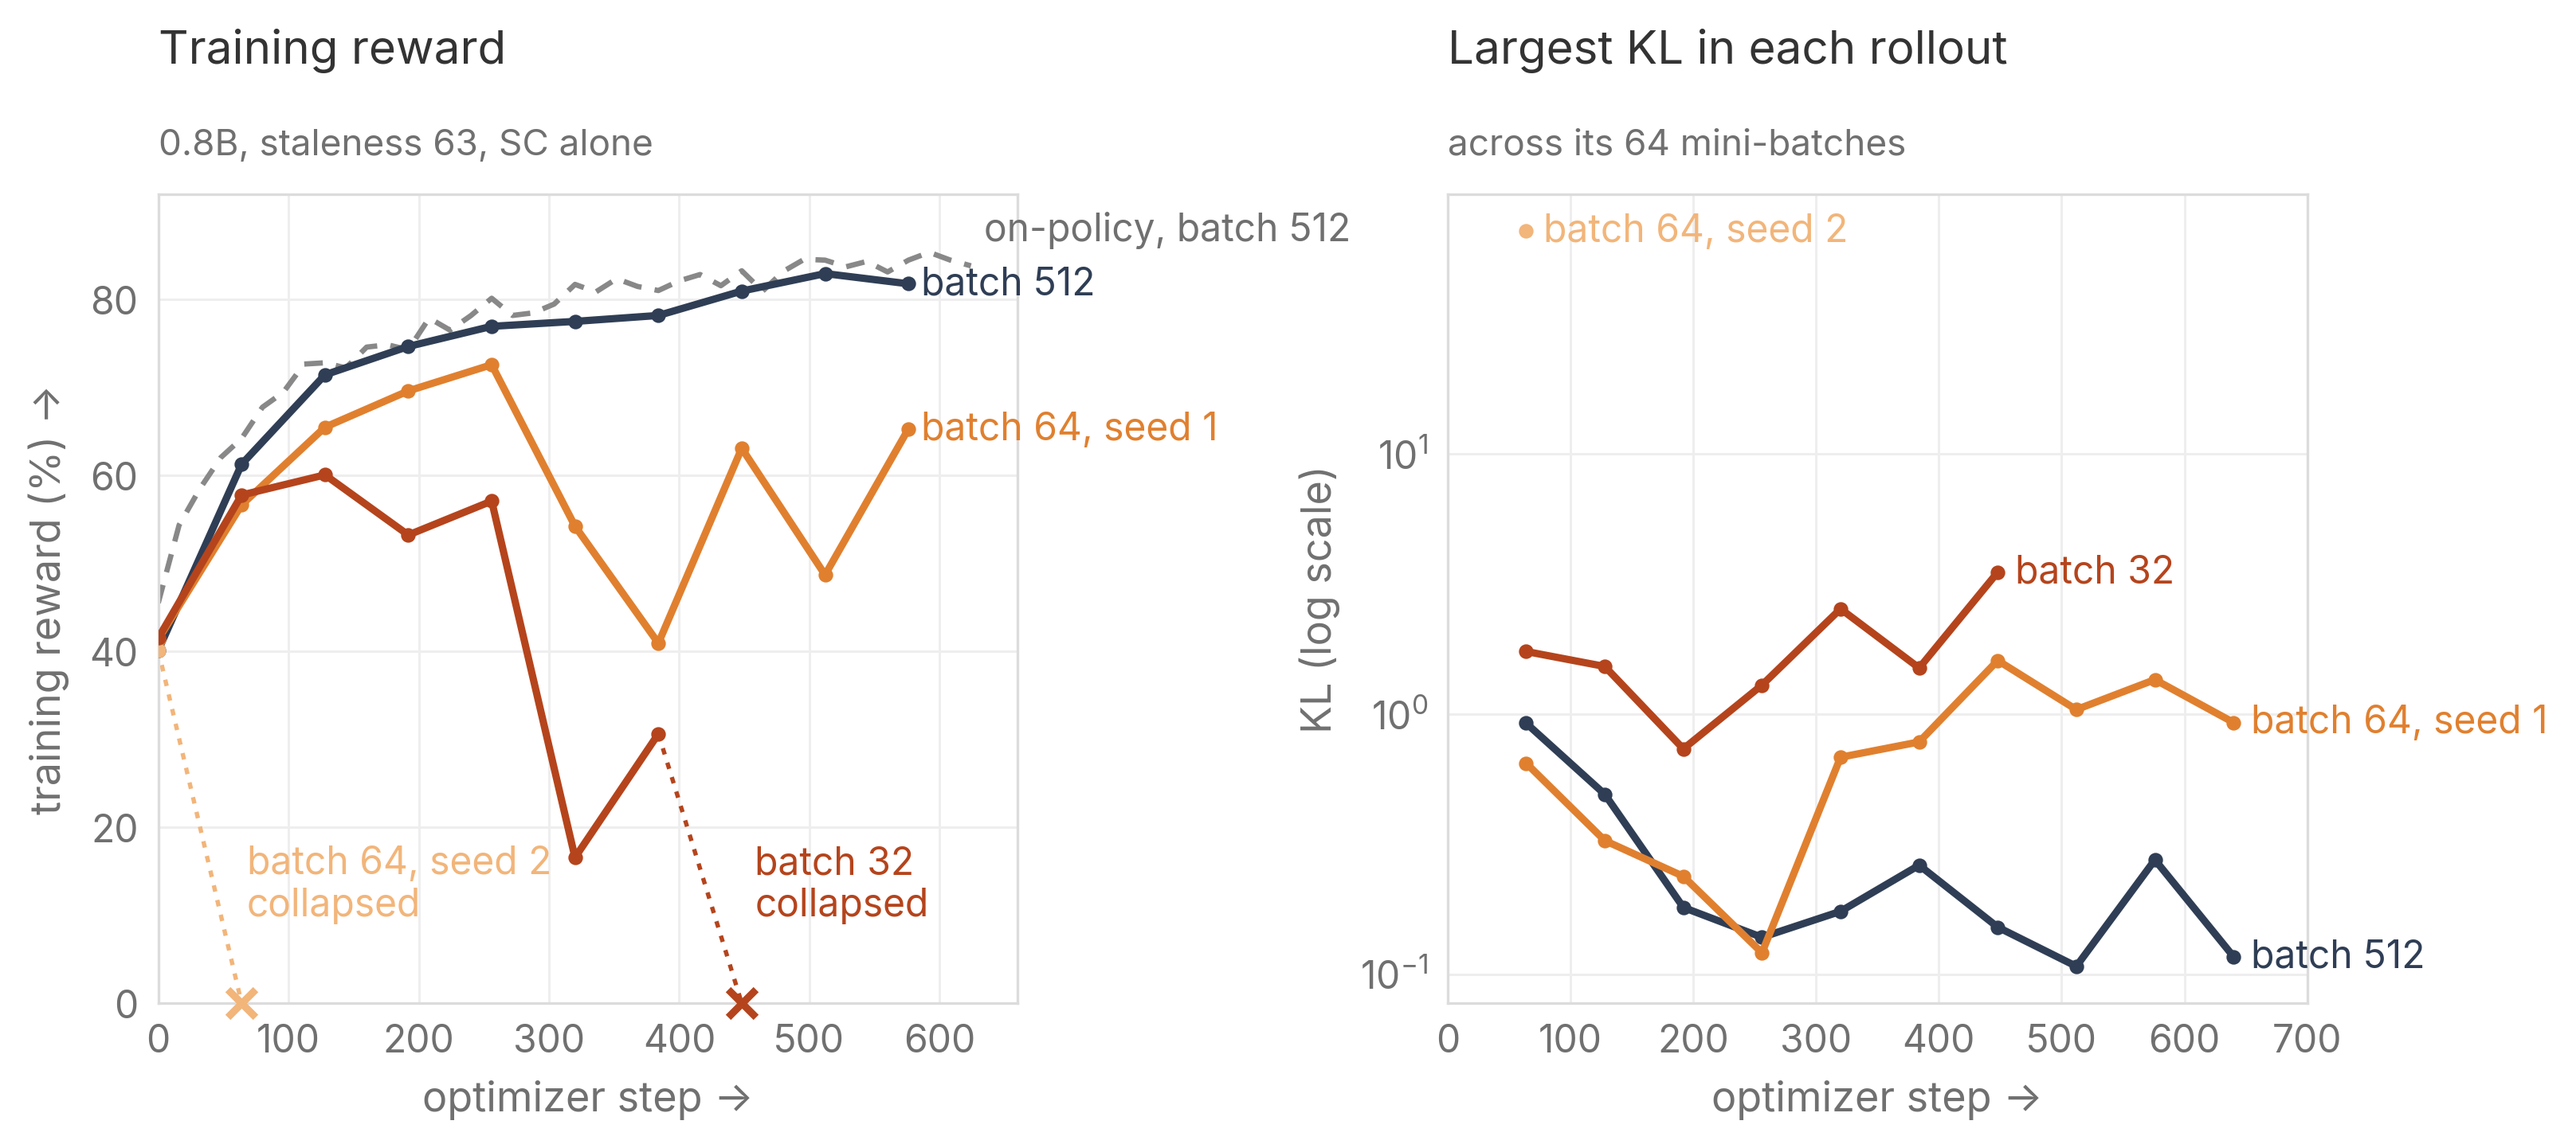
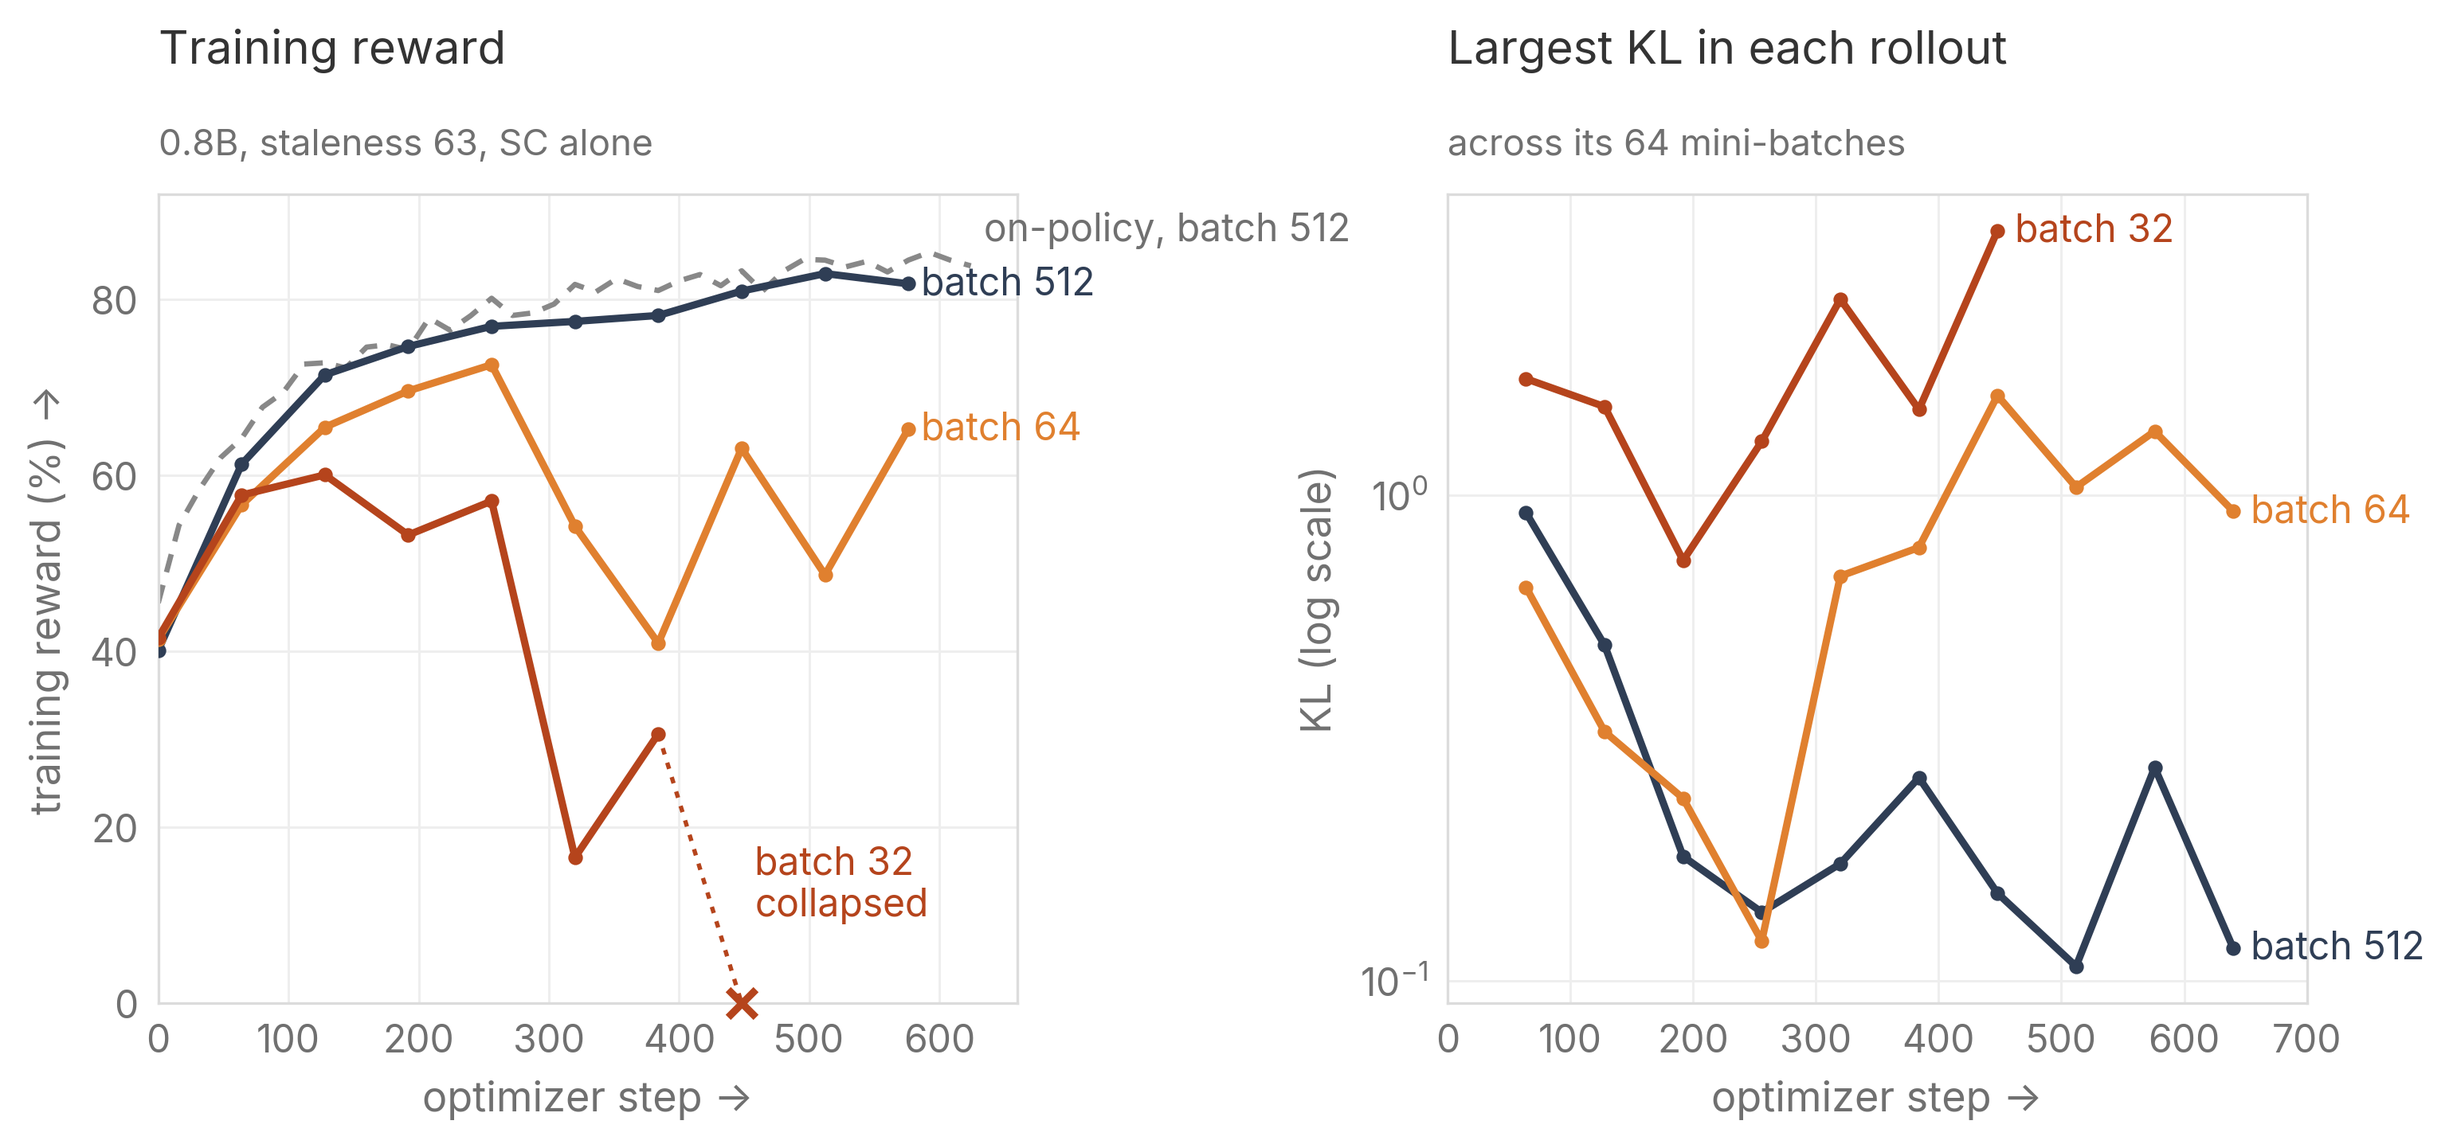
sc-drift-and-distance: Figure 7 drops the collapsed batch-64 seed, text describes it

diff --git a/sc-drift-and-distance/index.html b/sc-drift-and-distance/index.html
@@ -189,8 +189,8 @@ html[data-theme=dark] .body figure img{filter:invert(.92) hue-rotate(180deg)}
 <figure id="fig-6"><img src="figs/fig06_nocorr_batch.png?v=8fd6691e7f" alt="Figure 6"><figcaption><b>Figure 6. First-rollout KL, with and without SC.</b> 0.8B on GSM8K, staleness 15. Solid: batch 64. Dashed: batch 512.</figcaption></figure>
 <h3 id="sec-2-3">2.3 High staleness and small batches: SC alone can break</h3>
 <p>Next we move to the opposite regime, with older data and smaller batches. Unlike vanilla IS, SC does not multiply the gradient by importance weights, so a single extreme weight cannot break it. It can still fail when the trainer moves far. We run SC alone at staleness 63 (64 mini-batches per rollout) with batches of 32, 64, and 512.</p>
-<figure id="fig-7"><img src="figs/fig07_sc_alone_staleness63_v4.png?v=90b33962c4" alt="Figure 7"><figcaption><b>Figure 7. SC alone at three batch sizes.</b> 0.8B on GSM8K, staleness 63, batch 32, 64, and 512. Left: training reward. Batch 32 and one of the two batch-64 seeds collapse. Right: the largest KL in each rollout (log scale).</figcaption></figure>
-<p>The left panel of <a class="figref" href="#fig-7">Figure 7</a> shows that SC alone keeps up with on-policy at batch 512 but breaks at smaller batches. Even the batch-64 seed that survives ends 14 points below its best. In the right panel, the smaller the batch, the higher the largest KL in each rollout. We repeat the test on 4B with DAPO-Math-17k at staleness 15 and also compare the three methods.</p>
+<figure id="fig-7"><img src="figs/fig07_sc_alone_staleness63_v4.png?v=30c6723eaf" alt="Figure 7"><figcaption><b>Figure 7. SC alone at three batch sizes.</b> 0.8B on GSM8K, staleness 63, batch 32, 64, and 512. Left: training reward. Right: the largest KL in each rollout (log scale).</figcaption></figure>
+<p>The left panel of <a class="figref" href="#fig-7">Figure 7</a> shows that SC alone keeps up with on-policy at batch 512 but breaks at smaller batches. Batch 32 collapses at step 448. Batch 64 trains to the end but finishes 14 points below its best, and a second batch-64 seed, not shown, collapses in its first rollout. In the right panel, the smaller the batch, the higher the largest KL in each rollout. We repeat the test on 4B with DAPO-Math-17k at staleness 15 and also compare the three methods.</p>
 <figure id="fig-8"><img src="figs/fig13_qwen4b_dapo.png?v=434394a213" alt="Figure 8"><figcaption><b>Figure 8. Vanilla IS, SC alone, and SC + TIS at batch 16 and batch 128.</b> 4B on DAPO-Math-17k, staleness 15, learning rate 0.033. Left: batch 16, where all three collapse. Purple: SC + KL penalty (<a class="secref" href="#sec-4-3">Section 4.3</a>). Right: batch 128, where all three keep up with on-policy.</figcaption></figure>
 <p>The 4B runs in <a class="figref" href="#fig-8">Figure 8</a> fail the same way at small batch. At batch 16, all three methods collapse, and each collapse starts with a sudden spike in the KL to the sampler. At batch 128, all three keep up with on-policy and roughly double the base model’s AIME scores. The differences among them are within sampling error (see the evaluation below). In both models, every failure comes with a large KL to the sampler, and a larger batch keeps that KL small. Why does the batch matter so much, and does it always help?</p>
 <details><summary>4B evaluation</summary>
